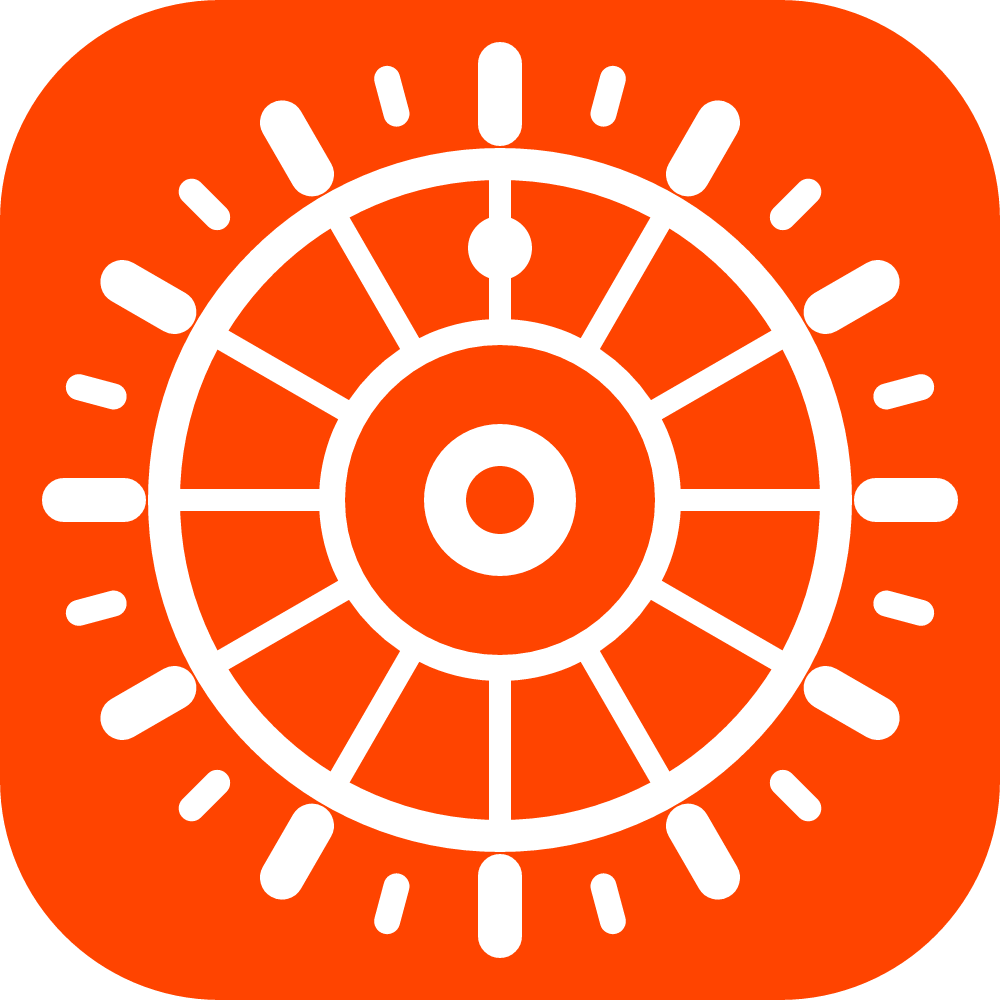
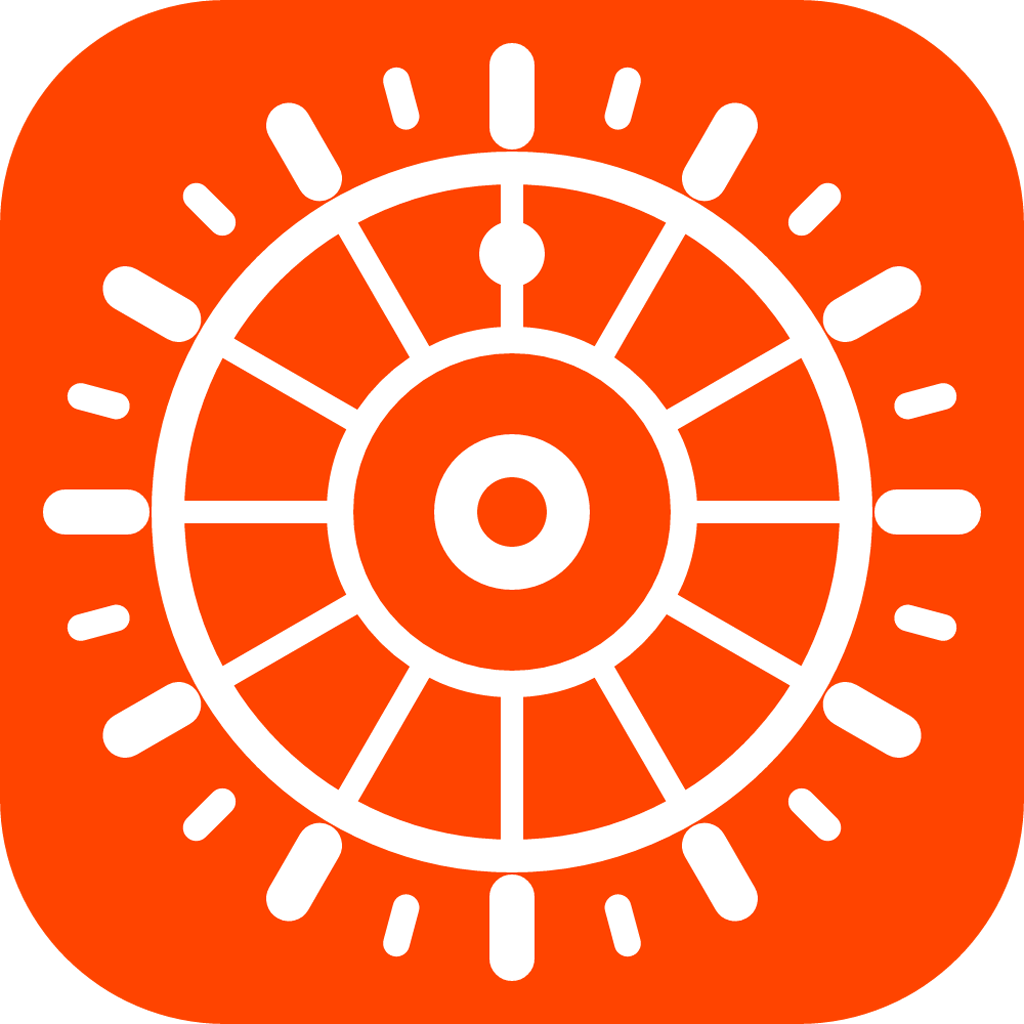
Refactor: Rename WebUntis API to generic ScheduleClient
- Function: withUntis → withScheduleClient
- Class: WebUntis → ScheduleClient
- Variable: untis → client
- API endpoints remain unchanged
- Documentation updated to generic terms
- All functionality preserved

Changed region(s): [[0.496, 0.124, 0.527, 0.155], [0.124, 0.496, 0.155, 0.527]]

diff --git a/server.js b/server.js
@@ -4,7 +4,7 @@
 const express = require('express');
 const path = require('path');
 const crypto = require('crypto');
-const { WebUntis } = require('webuntis');
+const ScheduleClient = require('webuntis');
 
 const app = express();
 const PORT = process.env.PORT || 3000;
@@ -72,14 +72,14 @@ function validCreds(c) {
   return c && c.school && c.server && c.username && c.password;
 }
 
-async function withUntis(creds, fn) {
+async function withScheduleClient(creds, fn) {
   const { school, server, username, password } = creds;
-  const untis = new WebUntis(school, username, password, server);
+  const client = new ScheduleClient(school, username, password, server);
   try {
-    await untis.login();
-    return await fn(untis);
+    await client.login();
+    return await fn(client);
   } finally {
-    try { await untis.logout(); } catch (_) {}
+    try { await client.logout(); } catch (_) {}
   }
 }
 
@@ -167,12 +167,12 @@ app.post('/api/timetable', async (req, res) => {
   if (!validCreds(creds)) return res.status(400).json({ error: 'Fehlende Felder.' });
   try {
     const target = date ? new Date(date) : new Date();
-    const timetable = await withUntis(creds, u => u.getOwnTimetableFor(target));
+    const timetable = await withScheduleClient(creds, u => u.getOwnTimetableFor(target));
     timetable.sort((a, b) => a.startTime - b.startTime);
     annotateLessons(timetable);
     res.json({ ok: true, date: target.toISOString(), timetable });
   } catch (err) {
-    console.error('[Untis Day Error]', err.message);
+    console.error('[Schedule Day Error]', err.message);
     res.status(401).json({ error: err.message || 'Login fehlgeschlagen' });
   }
 });
@@ -186,7 +186,7 @@ app.post('/api/timetable-week', async (req, res) => {
     const start = new Date(rangeStart);
     const end = new Date(rangeEnd);
 
-    const result = await withUntis(creds, async (u) => {
+    const result = await withScheduleClient(creds, async (u) => {
       const timetable = await u.getOwnTimetableForRange(start, end);
 
       // Homework (primary endpoint)
@@ -274,14 +274,14 @@ app.post('/api/timetable-week', async (req, res) => {
       exams,
     });
   } catch (err) {
-    console.error('[Untis Week Error]', err.message);
+    console.error('[Schedule Week Error]', err.message);
     res.status(401).json({ error: err.message || 'Login fehlgeschlagen' });
   }
 });
 
 /* ============================================================
    PROFILE — student's own foreName / longName.
-   The webuntis lib stores sessionInformation after login (personId,
+   The schedule client library stores sessionInformation after login (personId,
    personType, klasseId). getStudents() then lets us look up our own
    row. Many schools restrict that endpoint to teachers, so we wrap
    in try/catch and just return empty fields on failure — the
@@ -300,7 +300,7 @@ app.post('/api/profile', async (req, res) => {
   const creds = req.body || {};
   if (!validCreds(creds)) return res.status(400).json({ error: 'Fehlende Felder.' });
   try {
-    const profile = await withUntis(creds, async (u) => {
+    const profile = await withScheduleClient(creds, async (u) => {
       const sess = u.sessionInformation || {};
       let foreName = '', longName = '';
       if (sess.personType === 5 && sess.personId) {
@@ -333,14 +333,14 @@ app.post('/api/profile', async (req, res) => {
 
 /* ============================================================
    OFFICE HOURS (Sprechzeiten) — uses raw JSON-RPC since the
-   webuntis library doesn't expose this method directly
+   schedule client library doesn't expose this method directly
 ============================================================ */
 app.post('/api/office-hours', async (req, res) => {
   const creds = req.body || {};
   if (!validCreds(creds)) return res.status(400).json({ error: 'Fehlende Felder.' });
   try {
-    const officeHours = await withUntis(creds, async (u) => {
-      // Try the internal JSON-RPC method — works on most modern WebUntis installs
+    const officeHours = await withScheduleClient(creds, async (u) => {
+      // Try the internal JSON-RPC method — works on most modern schedule client installations
       try {
         const r = await u._request('getOfficeHours2017', {});
         if (Array.isArray(r)) return r;
@@ -682,10 +682,10 @@ async function evaluateOnePrediction(pred, credsOverride) {
   let lessons = [];
   try {
     const target = new Date(dayIso + 'T12:00:00');
-    lessons = await withUntis(creds, u => u.getOwnTimetableFor(target));
+    lessons = await withScheduleClient(creds, u => u.getOwnTimetableFor(target));
     annotateLessons(lessons);
   } catch (err) {
-    console.error('[Prediction eval Untis]', pred.id, err.message);
+    console.error('[Prediction eval Schedule]', pred.id, err.message);
     return pred;
   }
 
@@ -977,6 +977,6 @@ app.get('/api/cloud-status', async (_req, res) => {
 });
 
 app.listen(PORT, () => {
-  console.log(`\n  untis.sync running -> http://localhost:${PORT}`);
+  console.log(`\n  schedule-sync running -> http://localhost:${PORT}`);
   console.log(`  cloud sync: ${CLOUD_ENABLED ? 'ON' : 'OFF (set UPSTASH_REDIS_REST_URL + UPSTASH_REDIS_REST_TOKEN)'}\n`);
 });

diff --git a/README.md b/README.md
@@ -1,6 +1,6 @@
-# untis.sync // sync-test
+# schedule-client.sync // sync-test
 
-Test-Prototyp für die spätere Gambling-Stundenplan-App. Macht erstmal nur eins: bei WebUntis einloggen, deinen Stundenplan holen, sauber anzeigen — inkl. Markierung für **suppliert** und **entfällt**.
+Test-Prototyp für die spätere Gambling-Stundenplan-App. Macht erstmal nur eins: bei der School Schedule einloggen, deinen Stundenplan holen, sauber anzeigen — inkl. Markierung für **suppliert** und **entfällt**.
 
 ## Setup
 
@@ -20,22 +20,22 @@ Du brauchst 4 Sachen:
 
 | Feld | Was | Beispiel |
 |------|-----|----------|
-| **server** | WebUntis-Server deiner Schule | `mese.webuntis.com` |
+| **server** | Schedule server deiner Schule | `schedule.school.com` |
 | **schule** | Schul-Identifier | `grg10-laaerberg` |
-| **username** | Dein normaler Untis-Login | — |
-| **passwort** | Dein normales Untis-Passwort | — |
+| **username** | Dein normaler Login | — |
+| **passwort** | Dein normales Passwort | — |
 
-**Server + Schule rausfinden:** Geh auf [webuntis.com](https://webuntis.com), such deine Schule, logg dich ein. Die URL wird dann sowas wie:
+**Server + Schule rausfinden:** Geh auf dein Schedule Portal, such deine Schule, logg dich ein. Die URL wird dann sowas wie:
 
 ```
-https://mese.webuntis.com/WebUntis/?school=grg10-laaerberg#/basic/login
-        └────── server ──────┘                └── schule ──┘
+https://schedule.school.com/Schedule/?school=grg10-laaerberg#/basic/login
+        └────── server ──────┘              └── schule ──┘
 ```
 
 ## Was die App macht
 
 1. Frontend sendet deine Credentials an dein lokales Backend (`POST /api/timetable`)
-2. Backend nutzt die `webuntis`-npm-Library um sich bei WebUntis einzuloggen
+2. Backend nutzt die `schedule-client`-npm-Library um sich bei der School Schedule einzuloggen
 3. Holt den Stundenplan für das gewählte Datum
 4. Schickt das Ergebnis als JSON zurück → Frontend rendert
 
@@ -43,14 +43,14 @@ https://mese.webuntis.com/WebUntis/?school=grg10-laaerberg#/basic/login
 
 ## Status-Codes (wichtig für später)
 
-WebUntis liefert pro Stunde ein `code`-Feld:
+Das Schedule System liefert pro Stunde ein `code`-Feld:
 - *kein code* → Stunde findet normal statt
 - `irregular` → suppliert (anderer Lehrer/Raum) → **das ist was wir später vergamblen**
 - `cancelled` → entfällt komplett
 
 ## Troubleshooting
 
-**"Login fehlgeschlagen":** Server-URL oder Schul-Identifier falsch. Check die URL auf webuntis.com nochmal.
+**"Login fehlgeschlagen":** Server-URL oder Schul-Identifier falsch. Check die URL auf deinem Schedule Portal nochmal.
 
 **"Bad credentials":** Username/Passwort stimmt nicht. Manchmal ist der Username nicht dein Vorname sondern ein Schul-Username (frag im Sekretariat oder bei nem Lehrer).
 